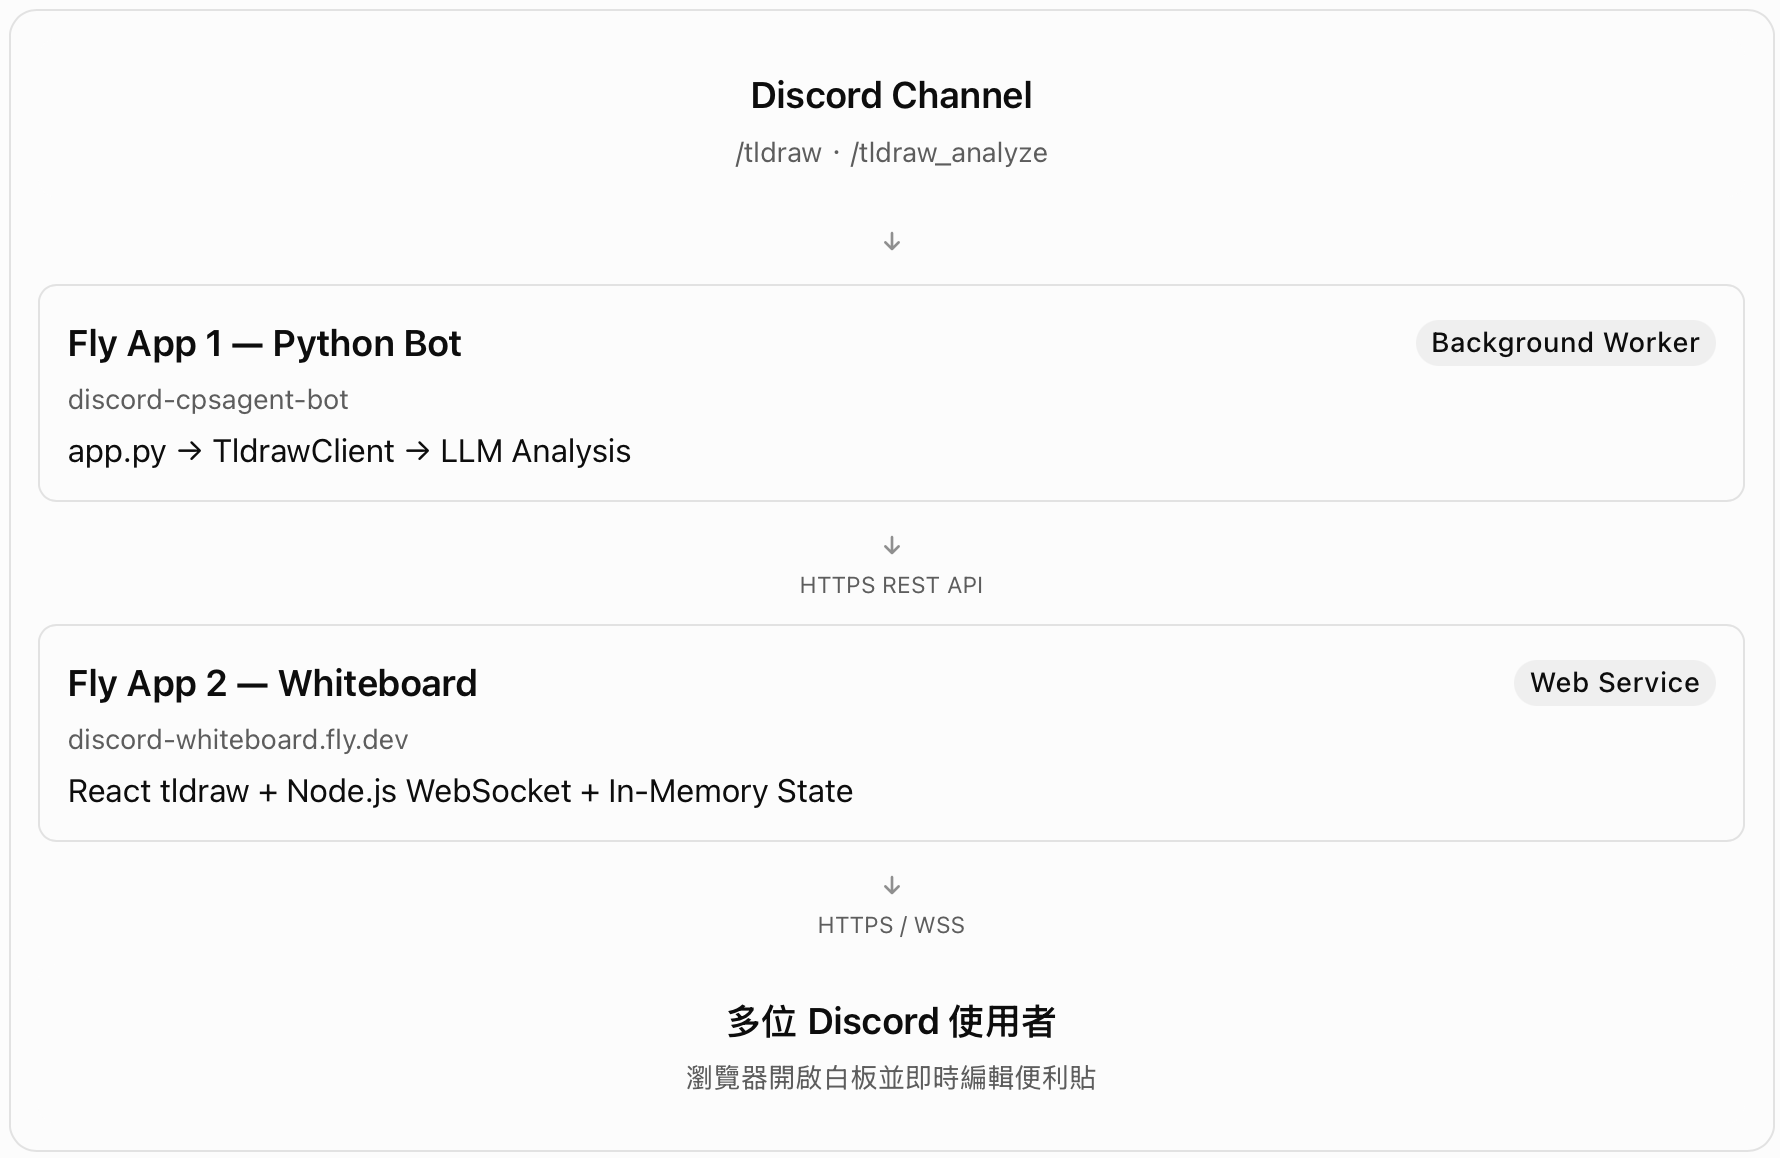
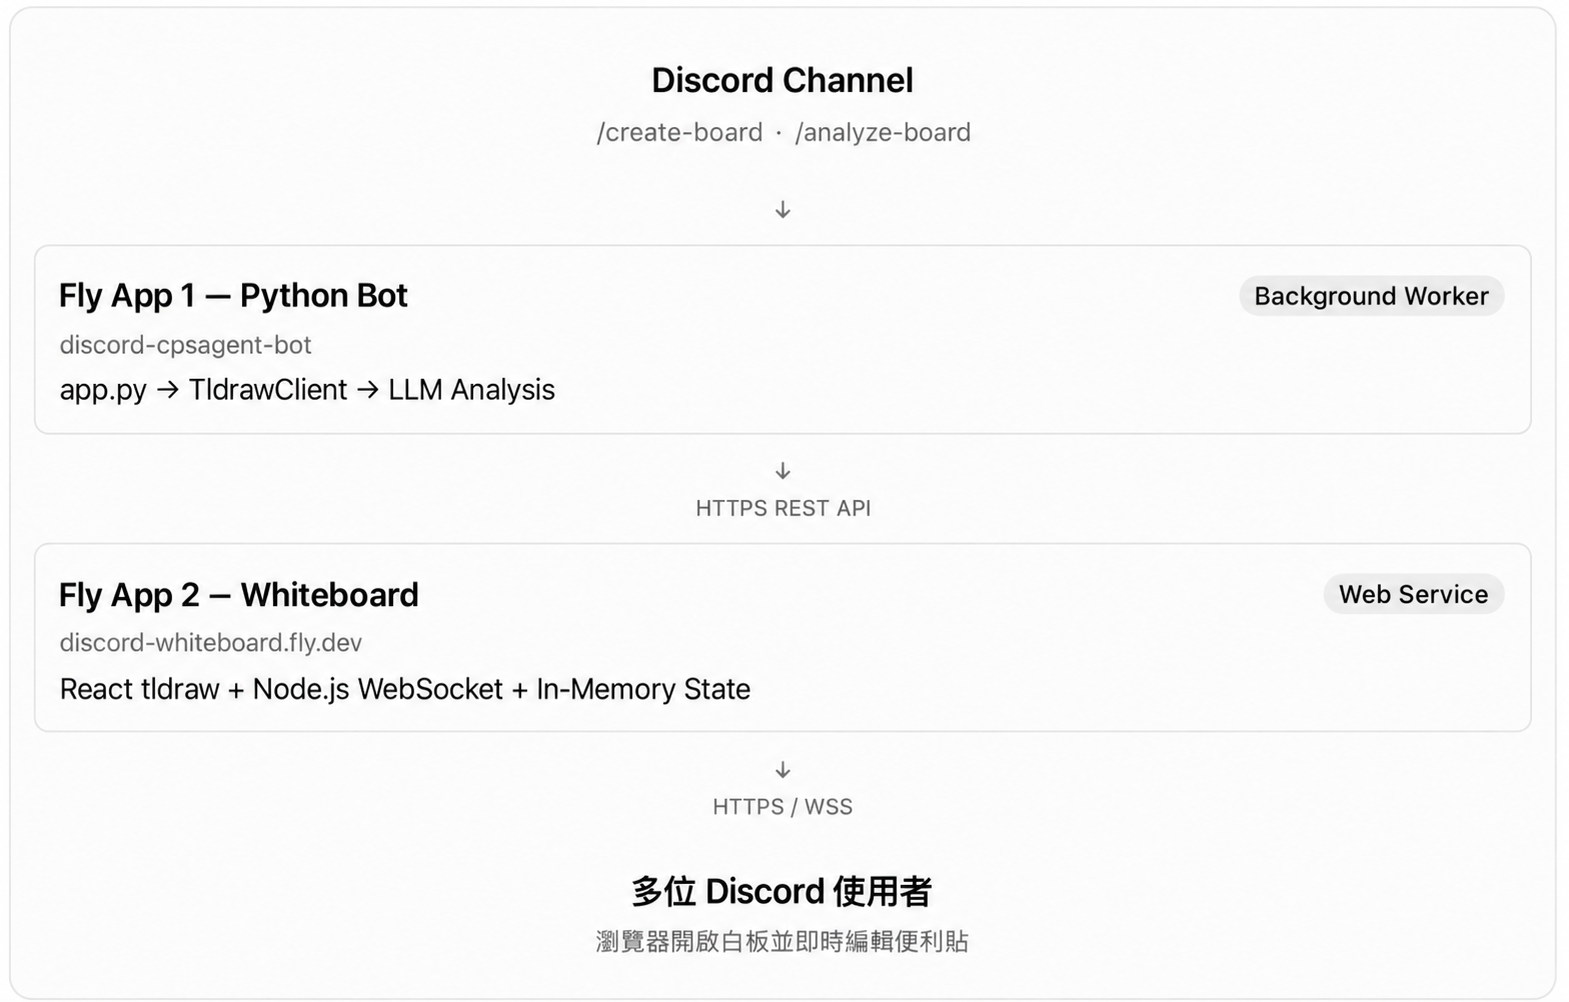
docs: modify README.md and add images

diff --git a/README.md b/README.md
@@ -1,3 +1,84 @@
 
-## System Structure
+# Discord CPSAgent 
+Discord CPSAgent is a collaborative brainstorming and discussion analysis tool developed for CPS (Collaborative Problem Solving) research.
+
+The project integrates Discord, tldraw, and Fly.io to provide an interactive environment where users can collaborate on shared whiteboards, organize ideas using sticky notes, and generate AI-powered discussion summaries.
+
+## 1. Technologies Used
+
+### (1) Discord Chatbot
+
+Discord serves as the main interface for user interaction and collaboration.
+
+The chatbot is developed by Python, supporting Slash Commands to manage collaborative whiteboards and trigger AI analysis.
+
+**Key Features:**
+- `/create-board` — Create a new collaborative whiteboard and return its URL.
+- `/analyze-board` — Retrieve sticky notes from a whiteboard and generate an AI-powered analysis.
+- **Discussion Monitoring** — Analyze conversations and user participation within Discord channels.
+- **AI-Powered Summarization** — Generate discussion summaries, identify key ideas, and suggest potential action items.
+
+### (2) tldraw React Whiteboard SDK
+
+[tldraw](https://tldraw.dev/) is a React-based whiteboard SDK that provides an interactive canvas for real-time collaboration.
+
+It allows users to freely create, edit, and organize sticky notes on shared whiteboards.
+
+**Key Features:**
+- **Sticky Notes** — Create and organize ideas using editable notes.
+- **Multi-User Collaboration** — Synchronize whiteboard changes in real time through WebSocket connections.
+- **Structured Data Access** — Retrieve whiteboard content as structured JSON data for backend analysis.
+
+### (3) Fly.io
+
+[Fly.io](https://fly.io/) is a cloud application platform used to deploy and host the project's services.
+
+The system uses two independent Fly.io applications:
+
+| Application | Description |
+|---|---|
+| **Discord CPSAgent Bot** | Runs the Python Discord chatbot as a background worker, handling user commands and LLM analysis. |
+| **tldraw Whiteboard** | Hosts the React frontend and Node.js backend, providing REST APIs and real-time WebSocket synchronization. |
+
+**Key Features:**
+- **Cloud Deployment** — Host application services independently.
+- **HTTPS / WebSocket** — Support secure API communication and real-time collaboration.
+- **Public Whiteboard Access** — Allow users to access collaborative whiteboards through shared URLs.
+- **Independent Services** — Deploy and manage the Discord chatbot and whiteboard backend separately.
+
+## 2. System Architecture
+
+The system consists of three main components:
+
+1. **Discord Bot (Python):** Handles Slash Commands, user interactions, and AI-powered analysis.
+2. **Whiteboard Service (React + Node.js):** Provides the collaborative canvas, REST APIs, and WebSocket synchronization.
+3. **Fly.io:** Hosts the Discord Bot and Whiteboard Service as separate cloud applications.
+
 ![System Structure](systemStructure.png)
+
+
+### Workflow
+
+1. A user enters `/create-board` in a Discord channel.
+2. The Discord Bot requests a new whiteboard through the backend REST API.
+3. The user receives a whiteboard URL and shares it with other participants.
+4. Multiple users collaborate by creating and editing sticky notes in real time.
+5. A user enters `/analyze-board` to retrieve the current whiteboard content.
+6. The backend passes the extracted sticky notes to an LLM for analysis.
+7. The Discord Bot returns the analysis results to the channel.
+
+![demo-create-board](demo-create-board.png)
+![demo-analyze-board](demo-analyze-board.png)
+![Whiteboard](Whiteboard.png)
+
+## 3. Project Goals
+
+This project aims to explore how AI-assisted tools can support **Collaborative Problem Solving (CPS)** by:
+
+- Facilitating real-time idea sharing and group brainstorming.
+- Collecting structured discussion content from collaborative whiteboards.
+- Analyzing group discussions and identifying key insights.
+- Evaluating participation and collaboration patterns.
+- Supporting AI-assisted reflection and discussion summarization.
+
+The project is designed as a research-oriented prototype for exploring AI-supported collaborative learning and problem-solving environments.
